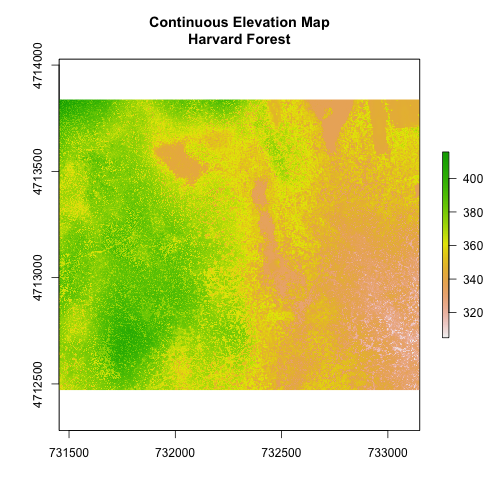
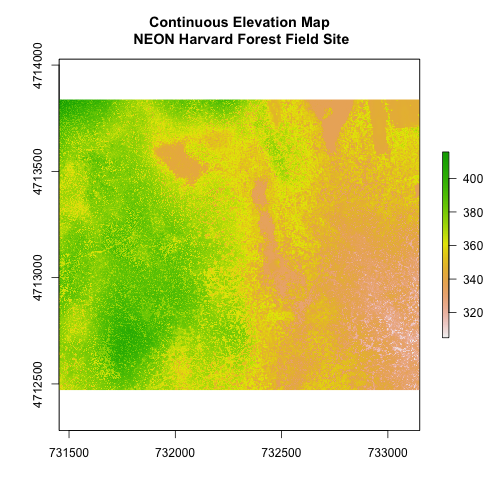
rebuild and final edits to lesson 00

Changed region(s): [[0.2679, 0.0595, 0.7143, 0.0893]]

diff --git a/_posts/2015-10-26-Rast00-Raster-Structure.md b/_posts/2015-10-26-Rast00-Raster-Structure.md
@@ -5,7 +5,7 @@ date:   2015-10-29
 authors: [Kristina Riemer, Zack Brym, Jason Williams, Jeff Hollister,  Mike Smorul, Leah Wasser]
 contributors: [Megan A. Jones]
 dateCreated: 2015-10-23
-lastModified: `r format(Sys.time(), "%Y-%m-%d")`
+lastModified: 2015-12-17
 packagesLibraries: [raster, rgdal]
 category:  
 tags: [raster-ts-wrksp, raster]
@@ -115,22 +115,10 @@ A map of elevation for Harvard Forest derived from the  <a href="http://www.neon
 is below. Notice that elevation is a continuous numeric variable. The legend
 represents the continuous range of values in the data from around 300 to 420 meters.
 
-```{r load-libraries-1, results='hide', echo=FALSE}
-
-library(raster)
-library(rgdal)
-
-```
 
 
-```{r elevation-map, echo=FALSE}
-#render DSM for lesson content background
-DSM_HARV <- raster("NEON_RemoteSensing/HARV/DSM/HARV_dsmCrop.tif")
 
-# code output here - DEM rendered on the screen
-plot(DSM_HARV, main="Continuous Elevation Map\n NEON Harvard Forest Field Site")
-
-```
+![ ]({{ site.baseurl }}/images/rfigs/00-Raster-Structure/elevation-map-1.png) 
 
 Some rasters contain categorical data. Thus each pixel represents a discrete class 
 such as a landcover type ("forest") rather than a continuous value such as elevation 
@@ -142,25 +130,7 @@ or temperature. Some examples of classified maps include:
 
 The legend of this map shows the colors representing each discrete class. 
 
-```{r classified-elevation-map, echo=FALSE}
-# Demonstration image for the lesson
-
-#add a color map with 5 colors
-col=terrain.colors(3)
-#add breaks to the colormap (6 breaks = 5 segments)
-brk <- c(250,350, 380,500)
-
-# Expand right side of clipping rect to make room for the legend
-par(xpd = FALSE,mar=c(5.1, 4.1, 4.1, 4.5))
-#DEM with a custom legend
-plot(DSM_HARV, col=col, breaks=brk, main="Classified Elevation Map\nNEON Harvard Forest Field Site",legend = FALSE)
-#turn xpd back on to force the legend to fit next to the plot.
-par(xpd = TRUE)
-#add a legend - but make it appear outside of the plot
-legend( par()$usr[2], 4713700,
-        legend = c("High Elevation", "Middle","Low Elevation"), 
-        fill = rev(col))
-```
+![ ]({{ site.baseurl }}/images/rfigs/00-Raster-Structure/classified-elevation-map-1.png) 
 
 ###Categorical Landcover Map for the United States 
 ![US NLCD Map](http://neondataskills.org/images/spatialData/NLCD06_conus_lg.gif)
@@ -192,14 +162,13 @@ More about the  `.tif` format:
 Let's first import a raster dataset into `R` and explore its metadata.
 To open rasters in `R`, we will use the `raster` and `rgdal` packages.
 
-```{r load-libraries }
-#load libraries
-library(raster)
-library(rgdal)
 
-#set working directory to ensure R can find the file we wish to import
-#setwd("working-dir-path-here")
-```
+    #load libraries
+    library(raster)
+    library(rgdal)
+    
+    #set working directory to ensure R can find the file we wish to import
+    #setwd("working-dir-path-here")
 
 ##Open a Raster in R
 We can use the `raster("path-to-raster-here")` function to open a raster in R. 
@@ -209,19 +178,28 @@ clear what is in the file. The data for this lesson were collected over
 from Harvard Forest so we'll use a naming convention of data_HARV. 
 {: .notice }
 
-```{r open-raster }
-# Load raster into R
-DSM_HARV <- raster("NEON_RemoteSensing/HARV/DSM/HARV_dsmCrop.tif")
 
-# View raster structure
-DSM_HARV 
+    # Load raster into R
+    DSM_HARV <- raster("NEON_RemoteSensing/HARV/DSM/HARV_dsmCrop.tif")
+    
+    # View raster structure
+    DSM_HARV 
 
-#plot raster
-#note \n in the title forces a line break in the title
-plot(DSM_HARV, 
-     main="NEON Digital Surface Model\nHarvard Forest")
+    ## class       : RasterLayer 
+    ## dimensions  : 1367, 1697, 2319799  (nrow, ncol, ncell)
+    ## resolution  : 1, 1  (x, y)
+    ## extent      : 731453, 733150, 4712471, 4713838  (xmin, xmax, ymin, ymax)
+    ## coord. ref. : +proj=utm +zone=18 +datum=WGS84 +units=m +no_defs +ellps=WGS84 +towgs84=0,0,0 
+    ## data source : /Users/lwasser/Documents/data/1_DataPortal_Workshop/1_WorkshopData/NEON_RemoteSensing/HARV/DSM/HARV_dsmCrop.tif 
+    ## names       : HARV_dsmCrop 
+    ## values      : 305.07, 416.07  (min, max)
 
-```
+    #plot raster
+    #note \n in the title forces a line break in the title
+    plot(DSM_HARV, 
+         main="NEON Digital Surface Model\nHarvard Forest")
+
+![ ]({{ site.baseurl }}/images/rfigs/00-Raster-Structure/open-raster-1.png) 
 
 Here is a map showing the elevation of our site in Harvard Forest. Is the max
 elevation value within this raster greater than 400 meters or 400 feet? Perhaps 
@@ -271,15 +249,21 @@ seems proportionally larger or smaller than they actually are!
 We can view the `CRS` string associated with our `R` object using the`crs()` 
 method. We can assign this string to an `R` object too.
 
-```{r view-resolution-units}
-#view resolution units
-crs(DSM_HARV)
 
-#assign crs to an object (class) to use for reprojection and other tasks
-myCRS <- crs(DSM_HARV)
-myCRS
+    #view resolution units
+    crs(DSM_HARV)
 
-```
+    ## CRS arguments:
+    ##  +proj=utm +zone=18 +datum=WGS84 +units=m +no_defs +ellps=WGS84
+    ## +towgs84=0,0,0
+
+    #assign crs to an object (class) to use for reprojection and other tasks
+    myCRS <- crs(DSM_HARV)
+    myCRS
+
+    ## CRS arguments:
+    ##  +proj=utm +zone=18 +datum=WGS84 +units=m +no_defs +ellps=WGS84
+    ## +towgs84=0,0,0
 
 The `CRS` of our `DSM_HARV` object tells us that our data are in the UTM projection.
 
@@ -321,9 +305,12 @@ coordinate reference system string `crs()`. Notice our data contains the followi
 
 `+units=m`
 
-``` {r resolution-units}
-crs(DSM_HARV)
-```
+
+    crs(DSM_HARV)
+
+    ## CRS arguments:
+    ##  +proj=utm +zone=18 +datum=WGS84 +units=m +no_defs +ellps=WGS84
+    ## +towgs84=0,0,0
 
 
 #Calculate Raster Min and Max Values
@@ -336,18 +323,19 @@ Raster statistics are often calculated and embedded in a `geotiff` for us.
 However if they weren't already calculated, we can calculate them using the
 `setMinMax()` function.
 
-```{r set-min-max }
 
-#This is the code if min/max weren't calculated: 
-#DSM_HARV <- setMinMax(DSM_HARV) 
+    #This is the code if min/max weren't calculated: 
+    #DSM_HARV <- setMinMax(DSM_HARV) 
+    
+    #view the calculated min value
+    minValue(DSM_HARV)
 
-#view the calculated min value
-minValue(DSM_HARV)
+    ## [1] 305.07
 
-#view only max value
-maxValue(DSM_HARV)
+    #view only max value
+    maxValue(DSM_HARV)
 
-```
+    ## [1] 416.07
 
 We can see that the elevation at our site ranges from 305.07m to 416.07m. Thus, 
 our site is fairly flat.
@@ -366,38 +354,13 @@ collected by an airplane which only flew over some of a particular region.
 In the image below, the pixels that are black, have no data values.
 The camera did not collect data in these areas. 
 
-```{r demonstrate-no-data-black, echo=FALSE }
-#demonstration code below - not being taught - just demonstrating no data values
-# Use stack function to read in all bands
-RGB_stack <- stack("NEON_RemoteSensing/HARV/HARV_RGB_Ortho.tif")
-
-# Create an RGB image from the raster stack
-par(col.axis="white",col.lab="white",tck=0)
-plotRGB(RGB_stack, r = 1, g = 2, b = 3, 
-        axes=TRUE, main="Raster With No Data Values\nRendered in Black")
-
-```
+![ ]({{ site.baseurl }}/images/rfigs/00-Raster-Structure/demonstrate-no-data-black-1.png) 
 
 Below - the black edges have been assigned `NoDataValue`. `R` doesn't render
 pixels that contain no value or a specified `NoData` value. Instead they are 
 assigned `NA` by `R`.
 
-```{r demonstrate-no-data, echo=FALSE}
-#reassign cells with 0,0,0 to NA
-#this is simply demonstration code - we will not teach this.
-f <- function(x) {
-  x[rowSums(x == 0) == 3, ] <- NA
-  x}
-
-newRGBImage <- calc(RGB_stack, f)
-
-
-par(col.axis="white",col.lab="white",tck=0)
-# Create an RGB image from the raster stack
-plotRGB(newRGBImage, r = 1, g = 2, b = 3,
-        axes=TRUE, main="Raster With No Data Values\nNoDataValue= NA")
- 
-```
+![ ]({{ site.baseurl }}/images/rfigs/00-Raster-Structure/demonstrate-no-data-1.png) 
 
 ###No Data Value Standard 
 
@@ -440,16 +403,18 @@ We can explore the distribution of values contained within our raster using the
 `hist` function which produces a histogram. Histograms are often useful in 
 identifying outliers and bad data values in our raster data.
 
-```{r view-raster-histogram }
 
-#view histogram of data
-hist(DSM_HARV,
-     main="Distribution of Digital Surface Model Values\n Histogram Default: 100,000 pixels\n NEON Harvard Forest",
-     xlab="DSM Elevation Value (m)",
-     ylab="Frequency",
-     col="wheat")
+    #view histogram of data
+    hist(DSM_HARV,
+         main="Distribution of Digital Surface Model Values\n Histogram Default: 100,000 pixels\n NEON Harvard Forest",
+         xlab="DSM Elevation Value (m)",
+         ylab="Frequency",
+         col="wheat")
 
-```
+    ## Warning in .hist1(x, maxpixels = maxpixels, main = main, plot = plot, ...):
+    ## 4% of the raster cells were used. 100000 values used.
+
+![ ]({{ site.baseurl }}/images/rfigs/00-Raster-Structure/view-raster-histogram-1.png) 
 
 Notice that an error message is thrown when `R` creates the histogram. 
 
@@ -468,20 +433,21 @@ histogram. **USE THIS WITH CAUTION** as forcing `R` to plot all pixel values
 in a histogram can be problematic when dealing with very large datasets.
 
 
-``` {r view-raster-histogram2}
 
-#View the total number of pixels (cells) in is our raster 
-ncell(DSM_HARV)
+    #View the total number of pixels (cells) in is our raster 
+    ncell(DSM_HARV)
 
-#create histogram that includes with all pixel values in the raster
-hist(DSM_HARV, 
-     maxpixels=ncell(DSM_HARV),
-     main="Distribution of Digital Surface Model Values\n All Pixel Values Included\n NEON Harvard Forest",
-     xlab="DSM Elevation Value (m)",
-     ylab="Frequency",
-     col="wheat4")
+    ## [1] 2319799
 
-```
+    #create histogram that includes with all pixel values in the raster
+    hist(DSM_HARV, 
+         maxpixels=ncell(DSM_HARV),
+         main="Distribution of Digital Surface Model Values\n All Pixel Values Included\n NEON Harvard Forest",
+         xlab="DSM Elevation Value (m)",
+         ylab="Frequency",
+         col="wheat4")
+
+![ ]({{ site.baseurl }}/images/rfigs/00-Raster-Structure/view-raster-histogram2-1.png) 
 
 Note that the shape of both histograms looks similar to the previous one that was
 created using a representative 10,000 pixel subset of our raster data. The 
@@ -503,12 +469,11 @@ the raster: surface elevation in meters for one time period.
 
 We can view the number of bands in a raster using the `nlayers()` method. 
 
-```{r view-raster-bands }
 
-#view unmber of bands
-nlayers(DSM_HARV)
+    #view unmber of bands
+    nlayers(DSM_HARV)
 
-```
+    ## [1] 1
 
 However, raster data can also be multi-band meaning that one raster file 
 contains data for more than one variable or time period for each cell. By default 
@@ -522,12 +487,31 @@ metadata about the raster. So far, we've explored raster metadata AFTER
 importing it in `R`. However, we can use the `GDALinfo("path-to-raster-here")`
 function to view raster metadata before we open a file in `R`.
 
-```{r view-attributes-gdal}
 
-# view attributes before opening file
-GDALinfo("NEON_RemoteSensing/HARV/DSM/HARV_dsmCrop.tif")
+    # view attributes before opening file
+    GDALinfo("NEON_RemoteSensing/HARV/DSM/HARV_dsmCrop.tif")
 
-```
+    ## rows        1367 
+    ## columns     1697 
+    ## bands       1 
+    ## lower left origin.x        731453 
+    ## lower left origin.y        4712471 
+    ## res.x       1 
+    ## res.y       1 
+    ## ysign       -1 
+    ## oblique.x   0 
+    ## oblique.y   0 
+    ## driver      GTiff 
+    ## projection  +proj=utm +zone=18 +datum=WGS84 +units=m +no_defs 
+    ## file        NEON_RemoteSensing/HARV/DSM/HARV_dsmCrop.tif 
+    ## apparent band summary:
+    ##    GDType hasNoDataValue NoDataValue blockSize1 blockSize2
+    ## 1 Float64           TRUE       -9999          1       1697
+    ## apparent band statistics:
+    ##     Bmin   Bmax    Bmean      Bsd
+    ## 1 305.07 416.07 359.8531 17.83169
+    ## Metadata:
+    ## AREA_OR_POINT=Area
 
 Notice a few things in the output:
 
@@ -553,16 +537,5 @@ following about the  `NEON_RemoteSensing/HARV/DSM/HARV_DSMhill.tif` file:
 
 NOTE: this file is a `hillshade`. We will learn about hillshades in <a href="{{ site.baseurl }}/NEON-R-Spatial-Raster/R/Multi-Band-Rasters-In-R/" target="_blank">  Work with Multi-band Rasters: Images in R</a>.
 
-``` {r challenge-code-attributes, eval=FALSE, echo=FALSE}
-GDALinfo("NEON_RemoteSensing/HARV/DSM/HARV_DSMhill.tif")
 
-#ANSWERS ###
-#1. If this file has the same CRS as DSM_HARV?  Yes: UTM Zone 18, WGS84, meters. 
-#2. What format `NoDataValues` take?  -9999
-#3. The resolution of the raster data? 1x1
-#4. How large a 5x5 pixel area would be? 5mx5m How? We are given resolution of 
-#1x1 and units in meters, therefore rolution of 5x5 means 5x5m. 
-#5. If the file is a multi- or single-band raster?  Single 
-
-```
 
